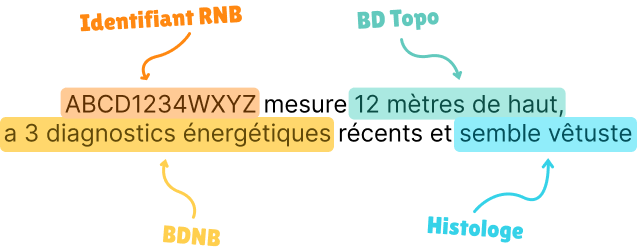
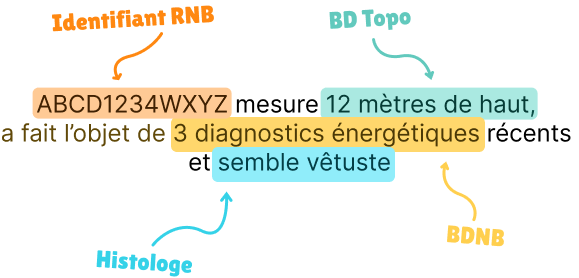
retouches image

diff --git a/app/(normalLayout)/outils-services/rapprochement/page.tsx b/app/(normalLayout)/outils-services/rapprochement/page.tsx
@@ -14,6 +14,7 @@ import styles from '@/styles/richerDatabases.module.scss'
 
 // Images
 import pivotIllu from '@/public/images/pivot-sentence.png'
+import pivotIlluMobile from '@/public/images/pivot-sentence-mobile.png'
 import mountainPhoto from '@/public/images/bdgs-mountains.jpg'
 import metalBdgPhoto from '@/public/images/metal-bdg.jpg'
 import bdgRiverPhoto from '@/public/images/bdg-river.jpg'
@@ -84,7 +85,14 @@ export default async function Page() {
                         <div className={styles.pivotBlock}>          
                             <h3 className={styles.pivotBlockTitle}>Les identifiants de bâtiments RNB servent de pivot entre des données jusqu&apos;à présent isolées.</h3>
                             <div className={styles.pivotBlockSentence}>
-                                <ImageNext src={pivotIllu} alt='Illustration d’un pivot' />
+                                <div className='none md-block'>
+                                    <ImageNext className='resp-image' src={pivotIllu} alt='Illustration d’un pivot' />
+                                </div>
+                                <div className='md-none'>
+                                    <ImageNext className='resp-image' src={pivotIlluMobile} alt='Illustration d’un pivot' />
+                                </div>
+                                
+                                
                             </div>
                         </div>
                     </div>

diff --git a/styles/richerDatabases.module.scss b/styles/richerDatabases.module.scss
@@ -1,6 +1,12 @@
+@import "vars.scss";
+
 .pivotBlock {
     background: #FFF8F0;
-    padding:40px;
+    padding:40px 20px;
+
+    @media (min-width: $bp-md) {
+        padding:40px;
+    }
 }
 
 .pivotBlockTitle {
